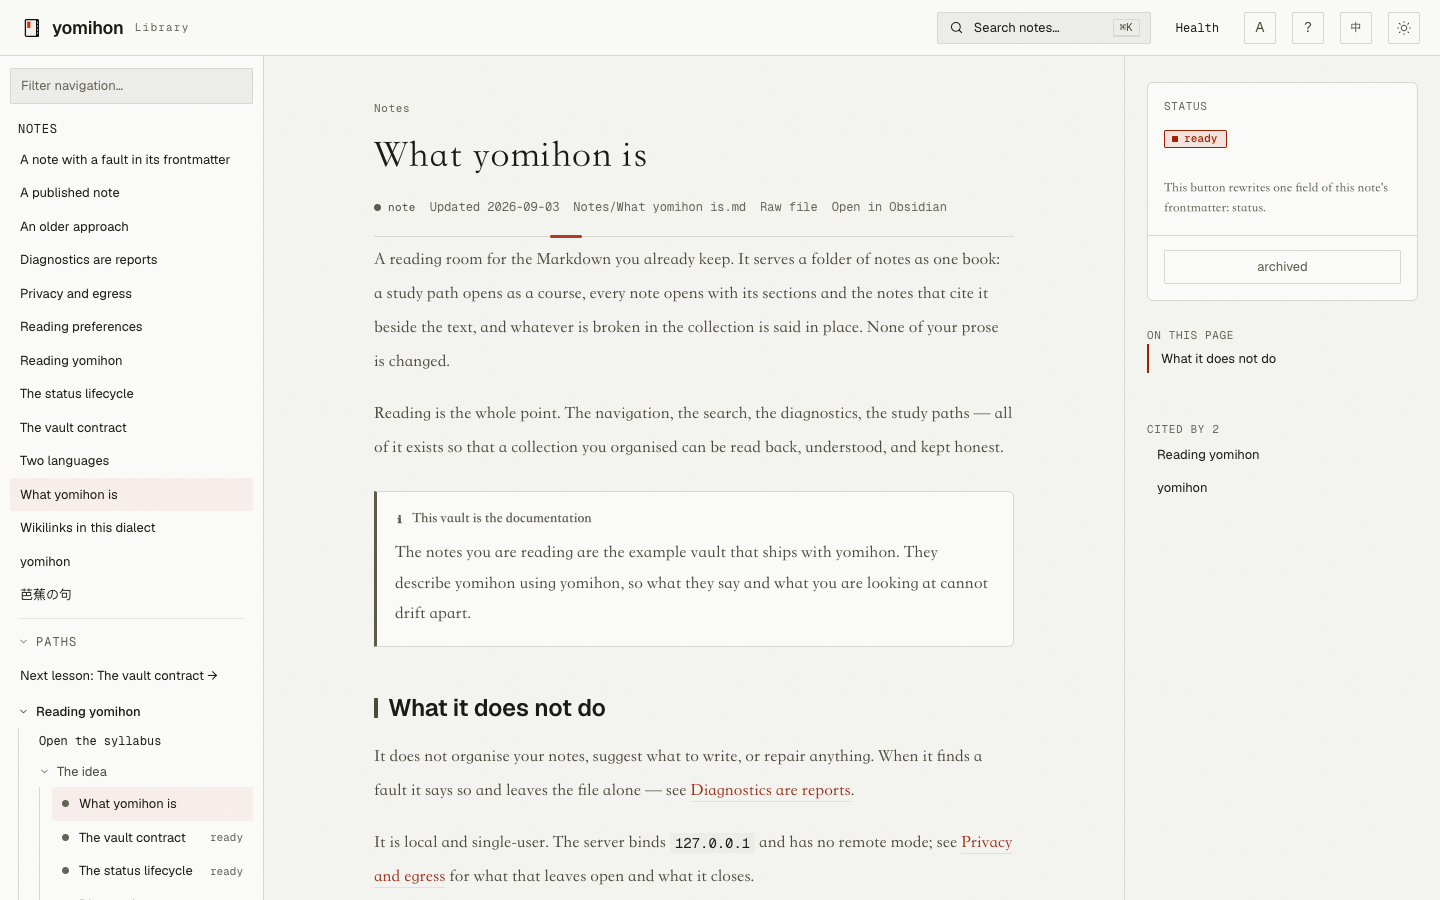
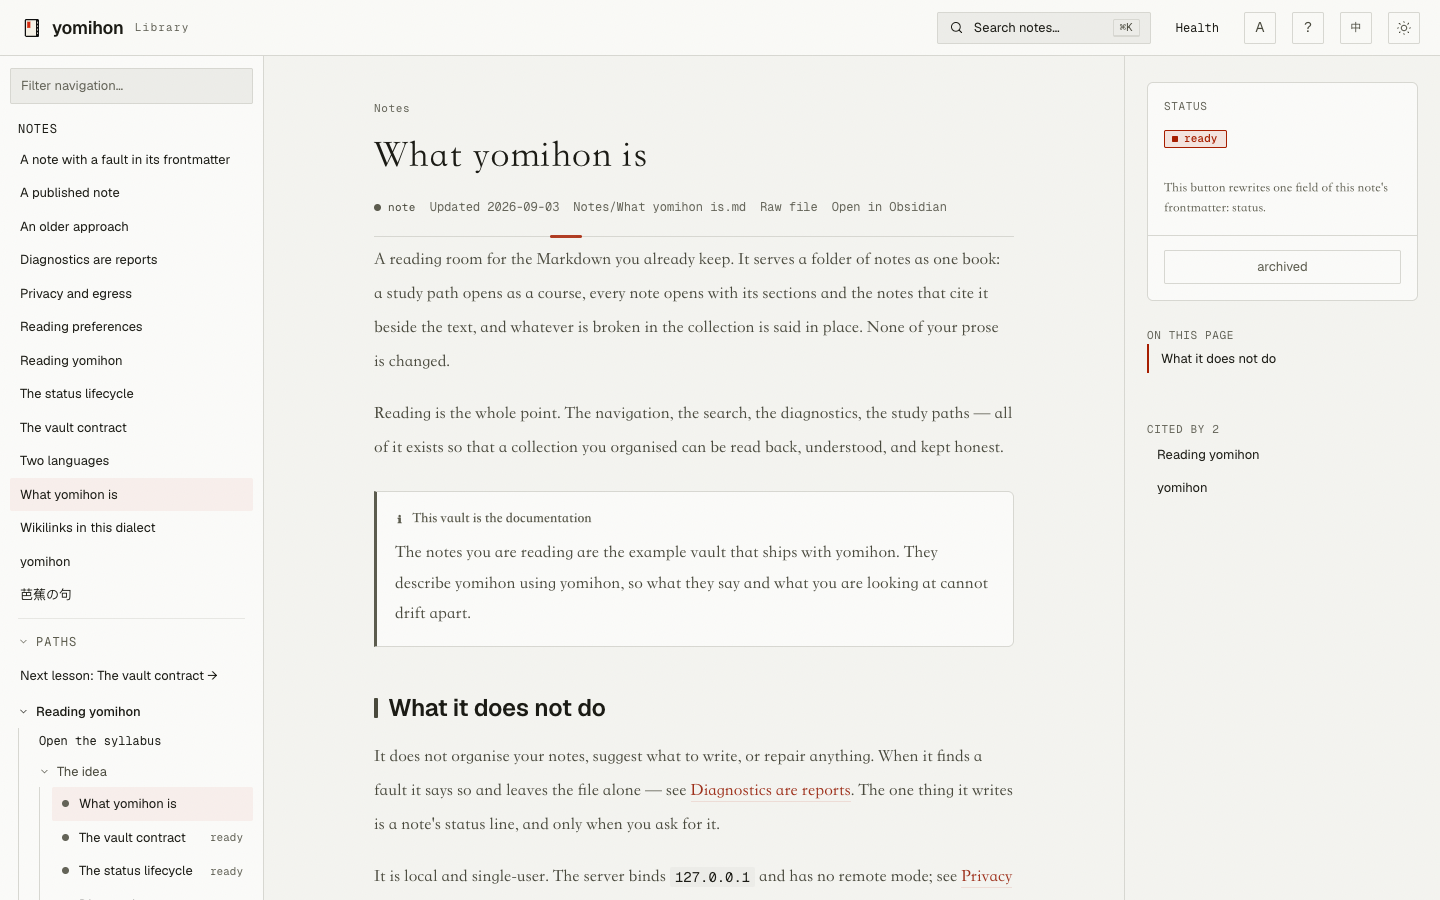
docs: name the one write and the one reports folder
Two review findings on the rewrite. The pictured notes said a fault
leaves the file alone and stopped there, which reads as a promise that
nothing is ever written; the boundary paragraph now names the one
exception, a note's status line on request, without moving it back
into the opening. The reports line claimed any HTML kept in the vault
opens in the reading room, but only the briefings under
System/reports/daily-briefing/ are enumerated; both READMEs now say so.
Both pictures are regenerated.

Changed region(s): [[0.25, 0.9022, 0.6875, 0.9956], [0.5938, 0.8711, 0.6875, 0.9022]]

diff --git a/README.zh-TW.md b/README.zh-TW.md
@@ -33,7 +33,7 @@ yomihon serve ~/notes
 - **學。** 學習路徑變成課程：課數、上一課與下一課、你在哪裡。振假名可開可關；標了朗讀的段落用它自己的語言唸出來（[怎麼寫一條學習路徑](AUTHORING.md)）。
 - **找。** 關鍵字搜尋，可按資料夾篩選，零筆時給你退一步的建議；反向連結與本頁章節留在正文旁邊。
 - **讓知識庫誠實。** 一頁健康狀況列出連不到目標的連結、沒有人引用的筆記、兩個檔案同時應答的名字；每篇筆記帶著自己的診斷；同一套檢查在命令列是 `yomihon check`。它不替你修任何東西——檔案由你改。
-- **報告。** 放在知識庫裡的 HTML 報告，在同一間閱讀室裡打開，隔離執行。
+- **報告。** 放在知識庫 `System/reports/daily-briefing/` 底下的每日簡報，在同一間閱讀室裡打開，隔離執行。
 - **兩種語言。** 介面說英文或繁體中文；每篇筆記保留書寫時使用的語言。
 - **你的。** 只綁 `127.0.0.1`，永遠不發網路請求，也不動你的文字。
 

diff --git a/README.md b/README.md
@@ -48,8 +48,8 @@ Then open <http://127.0.0.1:9610>. Any folder works as it is;
   notes nothing cites, and one name two files answer to; each note carries its
   own diagnostics; the same checks run as `yomihon check` on the command line.
   Nothing is repaired for you — you edit the file.
-- **Reports.** HTML briefings kept in the vault open inside the same room,
-  sandboxed.
+- **Reports.** Daily briefings kept under the vault's
+  `System/reports/daily-briefing/` folder open inside the same room, sandboxed.
 - **Two languages.** The interface speaks English or Traditional Chinese; every
   note keeps the language it was written in.
 - **Yours.** It binds to `127.0.0.1` only, never makes a network call, and

diff --git a/examples/vault/Notes/中文/yomihon 是什麼.md b/examples/vault/Notes/中文/yomihon 是什麼.md
@@ -17,6 +17,6 @@ lang: zh-Hant
 
 ## 它不做的事
 
-它不整理你的筆記，不建議你該寫什麼，也不修理任何東西。發現問題時它把問題說出來，然後讓檔案保持原樣——見[[診斷只是回報]]。
+它不整理你的筆記，不建議你該寫什麼，也不修理任何東西。發現問題時它把問題說出來，然後讓檔案保持原樣——見[[診斷只是回報]]。它唯一會寫的是一篇筆記的 status 那一行，而且只在你按下時。
 
 它在本機執行，只服務一個人：伺服器綁定 `127.0.0.1`，沒有遠端模式。要讓狀態控制與學習路徑這些需要知道筆記語意的畫面亮起來，得先有[[知識庫契約]]。

diff --git a/examples/vault/Notes/What yomihon is.md b/examples/vault/Notes/What yomihon is.md
@@ -25,7 +25,8 @@ back, understood, and kept honest.
 
 It does not organise your notes, suggest what to write, or repair anything.
 When it finds a fault it says so and leaves the file alone — see
-[[Diagnostics are reports]].
+[[Diagnostics are reports]]. The one thing it writes is a note's status
+line, and only when you ask for it.
 
 It is local and single-user. The server binds `127.0.0.1` and has no remote
 mode; see [[Privacy and egress]] for what that leaves open and what it closes.
